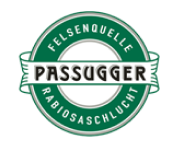
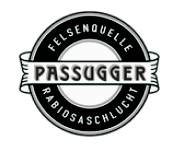
changes

Changed region(s): [[0.0811, 0.0544, 0.8649, 0.9524]]

diff --git a/wirz-portfolio/src/section_5/SectionFive.js b/wirz-portfolio/src/section_5/SectionFive.js
@@ -7,6 +7,7 @@ import { useAnimation } from "framer-motion";
 import circles from "./icons/Wireframe/circles.png";
 import ellipseFive from "./img/ellipse_section-five.png";
 import roadmap from "./img/roadmap.png";
+import arrowSectionFive from "./img/arrow_section-five.png";
 
 export const SectionFive = () => {
   const { ref, inView } = useInView({
@@ -19,6 +20,7 @@ export const SectionFive = () => {
   const animationRoadmap = useAnimation();
   const animationEllipseFive = useAnimation();
   const animationParagraph = useAnimation();
+  const animationArrow = useAnimation();
 
   useEffect(() => {
     if (inView) {
@@ -32,6 +34,7 @@ export const SectionFive = () => {
         transition: { type: "spring", duration: 1.5, bounce: 0.3, delay: 1 },
       });
       animationRoadmap.start({
+        opacity: 1,
         left: "50%",
         transition: { duration: 1.5, bounce: 0.3, delay: 1.4 },
       });
@@ -41,7 +44,11 @@ export const SectionFive = () => {
       });
       animationParagraph.start({
         opacity: 1,
-        transition: { type: "spring", duration: 1.5, bounce: 0.3, delay: 6 },
+        transition: { type: "spring", duration: 1.5, bounce: 0.3, delay: 4 },
+      });
+      animationArrow.start({
+        opacity: 1,
+        transition: { type: "spring", duration: 1.5, bounce: 0.3, delay: 5 },
       });
     }
   }, [inView]);
@@ -64,6 +71,11 @@ export const SectionFive = () => {
       <m.p className="section-five_paragraph" animate={animationParagraph}>
         So many wrong turns to get on the right track!
       </m.p>
+      <m.img
+        src={arrowSectionFive}
+        animate={animationArrow}
+        className="section-five_arrow"
+      />
     </div>
   );
 };

diff --git a/wirz-portfolio/src/section_4/SectionFour.js b/wirz-portfolio/src/section_4/SectionFour.js
@@ -7,7 +7,7 @@ import { useAnimation } from "framer-motion";
 import dots from "./icons/Wireframe/dots.svg";
 import ellipse from "./icons/ellipse_section-4.png";
 import arrow from "./icons/arrow_section-4.png";
-import passugger from "./img/passugger.png";
+import passugger from "./img/passugger-black.png";
 import schwarz from "./img/schwarz-architekten.png";
 import parki from "./img/parki.png";
 import rio from "./img/rio_bar.png";

diff --git a/wirz-portfolio/src/section_5/SectionFive.css b/wirz-portfolio/src/section_5/SectionFive.css
@@ -48,6 +48,7 @@
   left: -150%;
   transform: translateX(-60%);
   margin-top: 15rem;
+  opacity: 0;
 }
 
 .section-five_paragraph {
@@ -59,5 +60,13 @@
   /* background-color: white; */
   padding: 4px;
   font-family: var(--subtitle-font);
+  opacity: 0;
+}
+
+.section-five_arrow {
+  position: absolute;
+  scale: 0.7;
+  margin-left: 34rem;
+  margin-top: 37rem;
   opacity: 0;
 }
